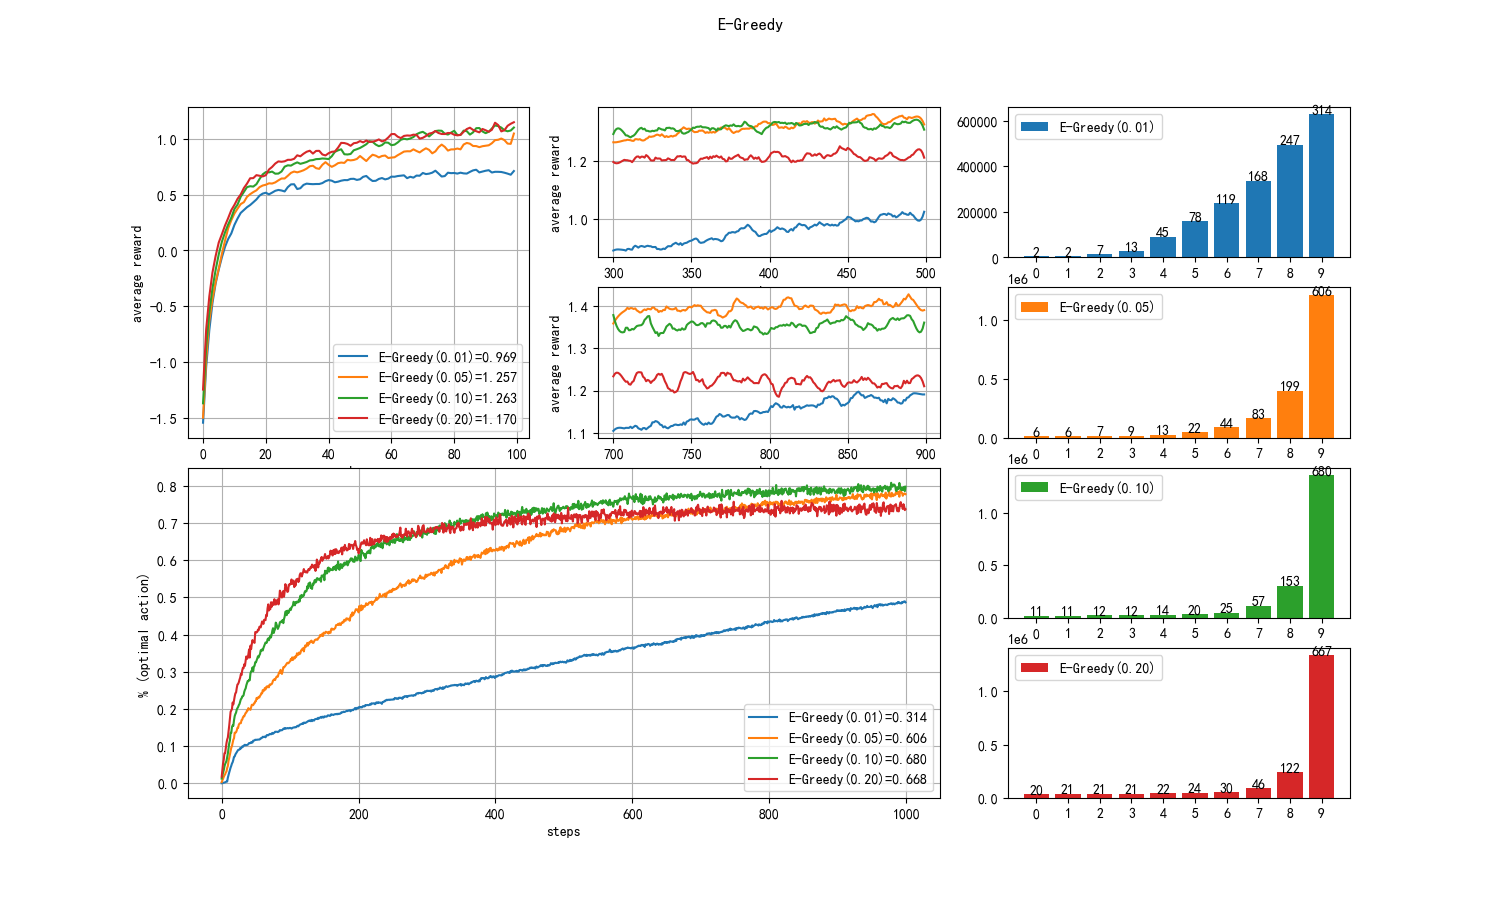
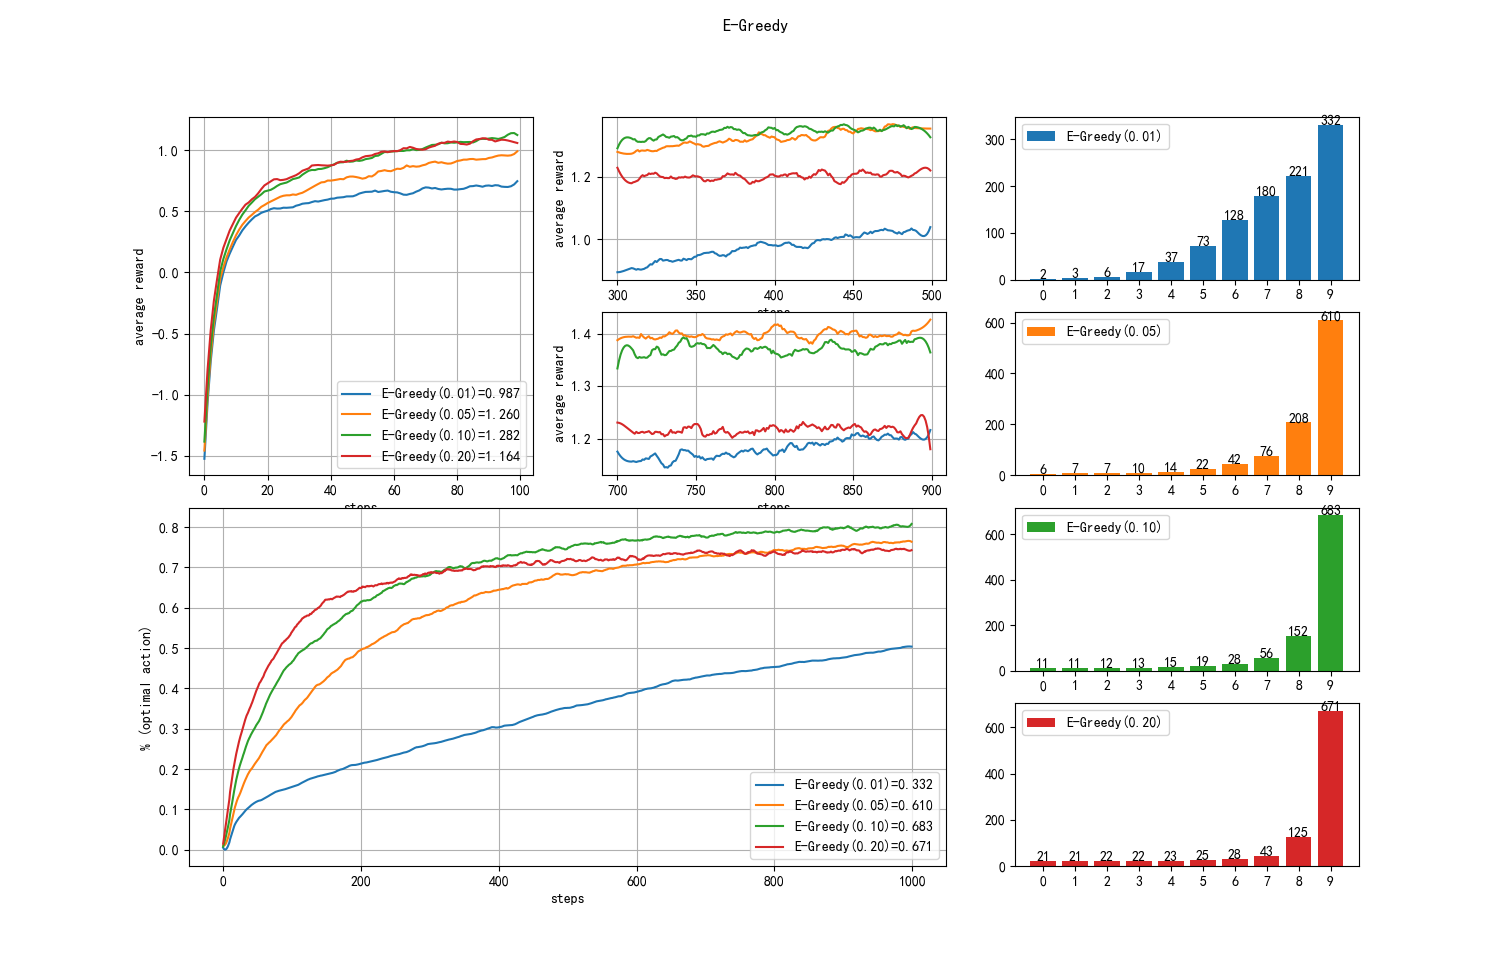
update

diff --git a/基础教程/A7-强化学习/20-多臂强盗问题 - 从概率计算到模拟验证/src/bandit_20_base.py b/基础教程/A7-强化学习/20-多臂强盗问题 - 从概率计算到模拟验证/src/bandit_20_base.py
@@ -103,7 +103,7 @@ def mp_simulate(bandits, k_arms, runs, steps, labels, title):
     # 绘制average reward[0:100]
     plt.subplot(grid[0:2, 0])
     for i, mean_rewards in enumerate(all_mean_rewards):     
-        tmp = ss.savgol_filter(mean_rewards[0:100], 5, 3)
+        tmp = ss.savgol_filter(mean_rewards[0:100], 10, 3)
         plt.plot(tmp, label=labels[i] + str.format("={0:0.3f}", mean_reward_per_bandit[i]))
     plt.xlabel('steps')
     plt.ylabel('average reward')
@@ -112,7 +112,7 @@ def mp_simulate(bandits, k_arms, runs, steps, labels, title):
     # 绘制average reward[300:500]
     plt.subplot(grid[0:1, 1])
     for i, mean_rewards in enumerate(all_mean_rewards):
-        tmp = ss.savgol_filter(mean_rewards[300:500], 15, 3)
+        tmp = ss.savgol_filter(mean_rewards[300:500], 20, 3)
         plt.plot(tmp)
     ticks = [0,50,100,150,200]
     tlabels = [300,350,400,450,500]
@@ -123,7 +123,7 @@ def mp_simulate(bandits, k_arms, runs, steps, labels, title):
     # 绘制average reward[700:900]
     plt.subplot(grid[1:2, 1])
     for i, mean_rewards in enumerate(all_mean_rewards):
-        tmp = ss.savgol_filter(mean_rewards[700:900], 15, 3)
+        tmp = ss.savgol_filter(mean_rewards[700:900], 20, 3)
         plt.plot(tmp)
     ticks = [0,50,100,150,200]
     tlabels = [700,750,800,850,900]
@@ -134,7 +134,8 @@ def mp_simulate(bandits, k_arms, runs, steps, labels, title):
     # 绘制正确的最优动作选择频率
     plt.subplot(grid[2:4, 0:2])
     for i, counts in enumerate(all_best_actions):
-        plt.plot(counts, label=labels[i] + str.format("={0:0.3f}", best_action_per_bandit[i]))
+        tmp = ss.savgol_filter(counts, 20, 3)
+        plt.plot(tmp, label=labels[i] + str.format("={0:0.3f}", best_action_per_bandit[i]))
     plt.xlabel('steps')
     plt.ylabel('% (optimal action)')
     plt.legend()

diff --git a/基础教程/A7-强化学习/20-多臂强盗问题 - 从概率计算到模拟验证/src/bandit_23_e_greedy.py b/基础教程/A7-强化学习/20-多臂强盗问题 - 从概率计算到模拟验证/src/bandit_23_e_greedy.py
@@ -8,9 +8,9 @@ class KAB_E_Greedy(kab_base.KArmBandit):
 
     def select_action(self):
         if (np.random.random_sample() < self.epsilon):
-            action = np.random.randint(self.k_arms) # 随机选择动作
+            action = np.random.randint(self.k_arms) # 随机选择动作进行探索
         else:
-            action = np.argmax(self.Q)  # 贪心选择目前最好的动作
+            action = np.argmax(self.Q)  # 贪心选择目前最好的动作进行利用
         return action
     
         
@@ -20,10 +20,10 @@ if __name__ == "__main__":
     k_arms = 10
 
     bandits:kab_base.KArmBandit = []
-    bandits.append(KAB_E_Greedy(k_arms, 0.01))
-    bandits.append(KAB_E_Greedy(k_arms, 0.05))
-    bandits.append(KAB_E_Greedy(k_arms, 0.10))
-    bandits.append(KAB_E_Greedy(k_arms, 0.20))
+    bandits.append(KAB_E_Greedy(k_arms, epsilon=0.01))
+    bandits.append(KAB_E_Greedy(k_arms, epsilon=0.05))
+    bandits.append(KAB_E_Greedy(k_arms, epsilon=0.10))
+    bandits.append(KAB_E_Greedy(k_arms, epsilon=0.20))
 
     labels = [
         'E-Greedy(0.01)',

diff --git a/基础教程/A7-强化学习/20-多臂强盗问题 - 从概率计算到模拟验证/4-贪心法.md b/基础教程/A7-强化学习/20-多臂强盗问题 - 从概率计算到模拟验证/4-贪心法.md
@@ -1,19 +1,18 @@
 
-## 2.4 两种贪心算法
+## 4.4 两种贪心算法
 
-### 2.4.1 先试探后贪心
+### 4.4.1 先试探后贪心
 
 #### 算法描述
 
-【算法 2.4.1】
+【算法 4.4.1】
 
 ---
-初始化：$T \leftarrow$ 试探次数，动作集 $A$ 的价值 $Q(A)=0$
+初始化：$T \leftarrow$ 试探次数
 $r \leftarrow 0$，循环 2000 次：
-　　初始化奖励分布和计数器
-　　$t \leftarrow 0$，迭代 1000 轮：
-　　　　如果 $t < T$，随机选择动作 $a = random\{A\}$；
-　　　　否则 $a = \argmax_a \ Q(A)$
+　　初始化奖励分布和计数器，动作集 $A$ 的价值 $Q(A)=0$
+　　$t \leftarrow 0$，迭代 1000 步：
+　　　　如果 $t < T$，随机选择动作 $a = random\{A\}$；否则 $a = \argmax_a \ Q(A)$
 　　　　执行 $a$ 得到奖励 $r$
 　　　　更新 $a$ 的动作价值 $Q_n(a)$
 　　　　$t \leftarrow t+1$
@@ -23,8 +22,7 @@ $r \leftarrow 0$，循环 2000 次：
 
 在本例中动作集空间为 10，如果只试探 10 次，一是可能没有选到所有的动作进行试探，二是即使选到了，由于概率分布，该动作的收益在当时的表现不佳，都有可能错过最佳动作的确定。
 
-如果试探次数足够多，就大概率可以找到最佳动作。
-
+如果试探次数足够多，就大概率可以找到最佳动作。找到合适的试探次数参数，是我们的目标。
 
 #### 算法实现
 
@@ -32,8 +30,8 @@ $r \leftarrow 0$，循环 2000 次：
 
 ```python
 class KAB_Greedy(kab_base.KArmBandit):
-    def __init__(self, k_arms=10, mu=0, sigma=1, try_steps=10):
-        super().__init__(k_arms=k_arms, mu=mu, sigma=sigma)
+    def __init__(self, k_arms=10, try_steps=10):
+        super().__init__(k_arms=k_arms)
         self.try_steps = try_steps  # 试探次数
 
     def select_action(self):
@@ -48,7 +46,35 @@ class KAB_Greedy(kab_base.KArmBandit):
 - 时间步 $t$ 定义为 self.step；
 - $t \leftarrow t+1,r \leftarrow r+1$ 的操作在基类 KArmBandit 中实现。
 
-#### 算法结果与分析
+#### 参数设置
+
+设置 try_steps 分别为 10、20、40、80 来做四组试验：
+
+```python
+if __name__ == "__main__":
+    runs = 2000
+    steps = 1000
+    k_arms = 10
+
+    bandits:kab_base.KArmBandit = []
+    bandits.append(KAB_Greedy(k_arms, try_steps=10))
+    bandits.append(KAB_Greedy(k_arms, try_steps=20))
+    bandits.append(KAB_Greedy(k_arms, try_steps=40))
+    bandits.append(KAB_Greedy(k_arms, try_steps=80))
+
+    labels = [
+        'Greedy(10)',
+        'Greedy(20)',
+        'Greedy(40)',
+        'Greedy(80)'
+    ]
+    title = "Greedy"
+    kab_base.mp_simulate(bandits, k_arms, runs, steps, labels, title)
+```
+
+#### 结果分析
+
+10 个动作，每次迭代 1000 步，运行 2000 次取平均。注意，是纵向平均，即 2000 次内有 2000 个第 1 步，2000 个第 2 步，......，然后对每一步取平均，分母为 2000。
 
 <center>
 <img src='./img/algo-greedy.png'/>
@@ -116,21 +142,19 @@ class KAB_Greedy(kab_base.KArmBandit):
 - Greedy(10) 和 Greedy(20) 这两个参数，匆忙结束了探索，就想立刻获得回报，“心急吃不上热豆腐”，平均收益只有 1.268,1.361。
 
 
+### 4.4.2 $\epsilon$-贪心算法
 
+#### 算法描述
 
-### 2.4.2 $\epsilon$-贪心算法
-
-
-【算法 2.4.2】
+【算法 4.4.2】
 
 ---
-初始化：$\epsilon \leftarrow$ 探索概率 $\in [0,1]$，动作集 $A$ 的价值 $Q(A)=0$
+初始化：$\epsilon \leftarrow$ 探索概率 $\in [0,1]$
 $r \leftarrow 0$，循环 2000 次：
-　　初始化奖励分布和计数器
-　　$t \leftarrow 0$，迭代 1000 轮：
+　　初始化奖励分布和计数器，动作集 $A$ 的价值 $Q(A)=0$
+　　$t \leftarrow 0$，迭代 1000 步：
 　　　　得到一个随机数 $m \in [0,1]$
-　　　　如果 $m < \epsilon$，随机选择动作 $a = random\{A\}$
-　　　　否则 $a = \argmax_a \ Q(A)$
+　　　　如果 $m < \epsilon$，随机选择动作 $a = random\{A\}$；否则 $a = \argmax_a \ Q(A)$
 　　　　执行 $a$ 得到奖励 $r$
 　　　　更新 $a$ 的动作价值 $Q_n(a)$
 　　　　$t \leftarrow t+1$
@@ -138,7 +162,15 @@ $r \leftarrow 0$，循环 2000 次：
 
 ---
 
-算法实现
+与算法 2.4.1 不同的地方在于动作选择策略取决于输入参数 $\epsilon$，通常把它设置为 0.1 或更小。每次迭代都先取一个随机数：
+
+- 如果它大于 $\epsilon$，则贪心选择目前 Q 值最大的动作——利用；
+- 如果它小于 $\epsilon$，则随机选择动作——探索。
+
+所以，可以预想到，$\epsilon$ 越大，探索的机会越多，利用的机会就越少。找到合适的探索概率参数，是我们的目标。
+
+#### 算法实现
+
 【代码位置】
 
 ```python
@@ -149,15 +181,51 @@ class KAB_E_Greedy(kab_base.KArmBandit):
 
     def select_action(self):
         if (np.random.random_sample() < self.epsilon):
-            action = np.random.randint(self.k_arms) # 随机选择动作
+            action = np.random.randint(self.k_arms) # 随机选择动作进行探索
         else:
-            action = np.argmax(self.Q)  # 贪心选择目前最好的动作
+            action = np.argmax(self.Q)  # 贪心选择目前最好的动作进行利用
         return action
 ```
+#### 参数设置
+
+设置 $\epsilon$ 分别为 0.01、0.05、0.10、0.20 来做四组试验：
+
+```python
+......
+    bandits.append(KAB_E_Greedy(k_arms, epsilon=0.01))
+    bandits.append(KAB_E_Greedy(k_arms, epsilon=0.05))
+    bandits.append(KAB_E_Greedy(k_arms, epsilon=0.10))
+    bandits.append(KAB_E_Greedy(k_arms, epsilon=0.20))
+......
+```
+
+有的读者可能会有疑问，为什么选择这四个参数而不是 0.3、0.4 等等？因为笔者已经事先做了一些试验，得到了一个最佳范围。读者也可以自行试验，间距从大到小，一步步来得到最佳范围，最后要保证第一个和第四个参数的结果比第二个和第三个参数的结果要差，就说明已经达到目的了。
+
+#### 结果分析
+
+同样是 10 个动作，每次迭代 1000 步，运行 2000 次取平均。
 
 <center>
 <img src='./img/algo-E-greedy.png'/>
 
 图 2.4.2 $\epsilon$-贪心算法
 </center>
+
+从图 2.4.2 来看，
+
+- 参数 $\epsilon=0.01$
+
+    探索的机会太少，所以一直到了 1000 步时，平均收益还处于上升状态，意味着还在继续强化对于最佳动作的判断。
+
+- 参数 $\epsilon=0.20$
+
+    探索的机会太多，在已经得到了最佳动作后，还在继续探索。看第四部分的红色柱图，前 8 个非最佳动作的选择次数比绿色柱图要多，浪费了很多利用的机会。
+
+- 参数 $\epsilon=0.10$
+
+    最佳参数，平均收益可以达到 1.282，但是比算法 4.4.1 的最大值 1.409 要小，原因是 1000x0.1=100，即花了 100 步做探索，而算法 4.4.1 中的最佳参数是 40 步。
+
+- 参数 $\epsilon=0.05$
+
+    这个参数在 700-900 步中的表现很好，从第四部分看，也属于后来居上的，但是在 1000 步的限制下，会比第三个参数要差一些。读者可以延长步数进行更多的验证。
 

diff --git a/基础教程/A7-强化学习/20-多臂强盗问题 - 从概率计算到模拟验证/3-多臂赌博机基类实现.md b/基础教程/A7-强化学习/20-多臂强盗问题 - 从概率计算到模拟验证/3-多臂赌博机基类实现.md
@@ -140,7 +140,7 @@ $r \leftarrow 0$，循环 2000 次：
 　　初始化奖励分布（注意这里与算法 2.3.1 不同）
 　　动作集 $A$ 的价值 $Q(A)=0$
 　　每个动作被执行的次数计数器 $n \leftarrow 0$（一共有10个计数器）
-　　$t \leftarrow 0$，迭代 1000 轮：
+　　$t \leftarrow 0$，迭代 1000 步：
 　　　　随机选择动作 $a$
 　　　　第 $n$ 次执行 $a$ 得到奖励 $r_n$
 　　　　针对动作 $a$ 的计数器 $n \leftarrow n+1$
